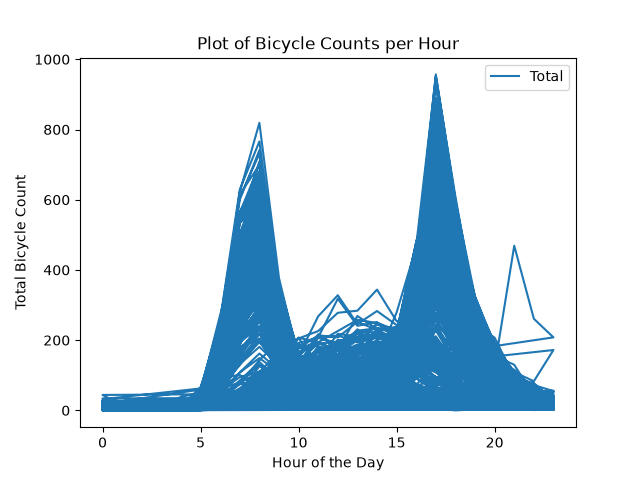
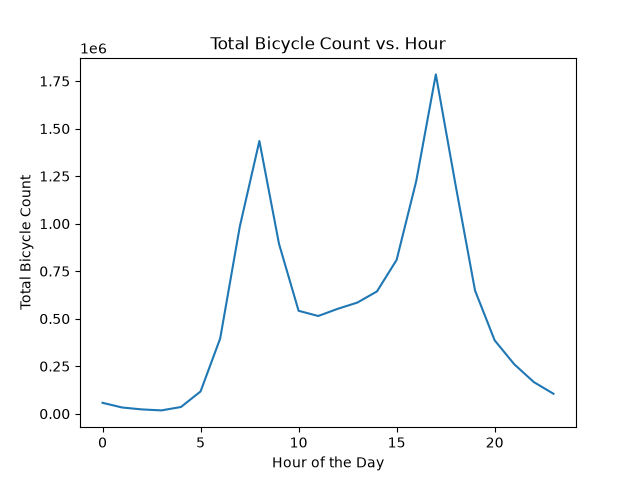
aggregate total count by hour, fixed plot

diff --git a/hw1/src/hw1_data_analysis/hw1.py b/hw1/src/hw1_data_analysis/hw1.py
@@ -34,13 +34,19 @@ df_2016 = df[df["Year"] == 2016]
 # Filter out missing data
 df_2016 = df_2016.dropna()   
 
-# Create plot of hour vs. total count
+# Aggregate total counts by hour
+hourly_total = df.groupby("Hour")["Total (Hour)"].sum()
+# Plot of aggregate total count for each hour
+plt.plot(hourly_total.index, hourly_total.values)
+plt.xlabel("Hour of the Day")
+plt.ylabel("Total Bicycle Count")
+plt.title("Total Bicycle Count vs. Hour")
+plt.savefig("counts_by_hour.png")
+
 
 # Calculate average busiest hour of the day
 hourly_total_avg = df_2016.groupby("Hour")["Total (Hour)"].mean()
 ## print((hourly_total_avg.max(), hourly_total_avg.idxmax()))
 ## Busiest hour is 5pm with ~400 bicycles
-
-print(df.head())
 
 
